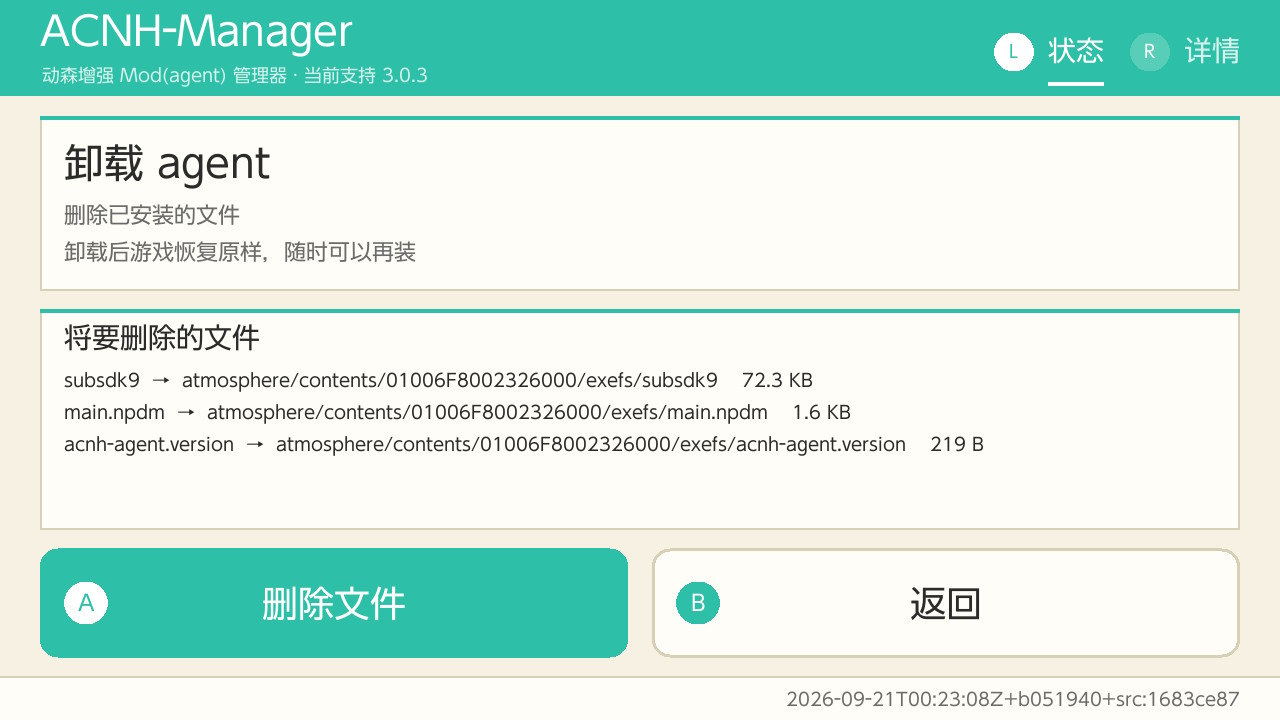
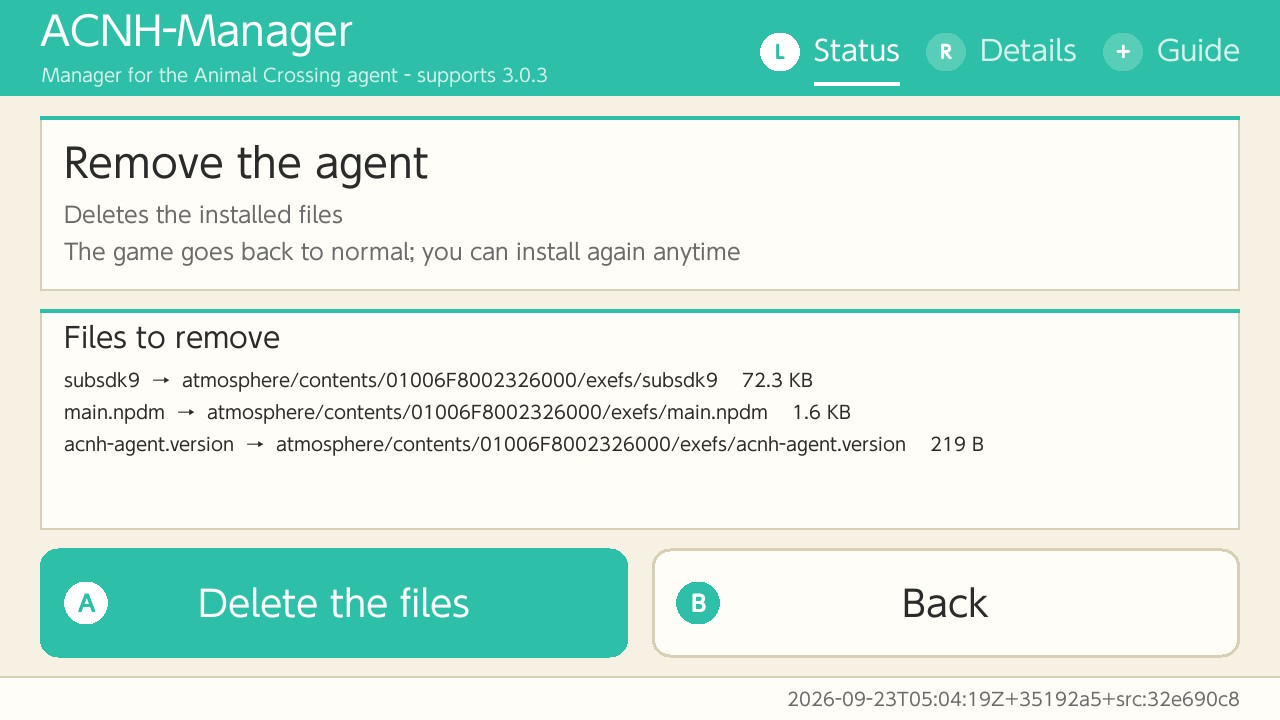
docs(store): refresh the store screenshots in English
Captured on hardware from the 1.0.1 release NRO already on the card (byte for
byte the published one): home, install confirmation, install result and the
uninstall confirmation, all in English because the store shows one text field
per entry to Chinese and English players alike. The four files were JPEG data
under a .png name; they are real PNGs now, matching the 196 screenshot assets
already in the upstream repo. store-listing.md and device-acceptance.md record
what was captured and what the card looked like afterwards.

diff --git a/docs/store-listing.md b/docs/store-listing.md
@@ -19,7 +19,7 @@
 |---|---|---|
 | 图标 | `assets/icon.png`(256×256,与 NRO 内图标同源) | 必需;商店网格里要能一眼认出。**已知取舍**:列表与详情页共用这一个文件 —— 列表按磁贴宽度等比画(方形最饱满),详情页却把图标按原始像素画进 256×150 的槽并裁掉溢出(`ui/menus/appstore.cpp`:`icon_vec(968, …, 256, 150)`,DrawIcon 不缩放),所以方形图标在详情页上下各少约 53 px(2026-09-21 真机实测)。两个视图无法同时完美,已试过改成 256×150:详情页完整了,但列表里的主体明显变小(+两条补边),故维持 256×256 |
 | 横幅 `screen.png` | `assets/screen.png`(848×208,由设计主图居中裁带得到;主图不入库) | 商店客户端把详情页顶部那块画成 **848×208**(Sphaira `ui/menus/appstore.cpp`:`banner_vec(70, …, 848.f, 208.f)`),缺图时回退成图标。**按比例裁切、不要缩放填满**;图里不写字(标题与说明由商店自己画)。换图:把新设计放成 `assets/screen-org.png`(仅本地需要,不入库)后跑 `tools/make-icons.py`,它会按 848:208 裁带生成 `screen.png`;没有主图时该步自动跳过 |
-| 截图 | `assets/screenshots/{status,install,done,uninstall}.png`(真机 1280×720,四张) | 商店按 `packages/<name>/screen<N>.png` 取图,所以 `tools/make-store-package.py` 会按 `SCREENSHOT_ORDER` 把它们声明成 `screenshot` 资产,并**额外**在包目录里生成 `screen1..4.png`(本地测试仓库与 CDN 布局用)。上游 README 明确说这类构建期文件可以不入 PR |
+| 截图 | `assets/screenshots/{status,install,done,uninstall}.png`(真机、英文界面、1280×720 真 PNG,2026-09-23 重抓) | 商店按 `packages/<name>/screen<N>.png` 取图,所以 `tools/make-store-package.py` 会按 `SCREENSHOT_ORDER` 把它们声明成 `screenshot` 资产,并**额外**在包目录里生成 `screen1..4.png`(本地测试仓库与 CDN 布局用)。上游 README 明确说这类构建期文件可以不入 PR。**界面用英文**:商店目录每个字段只有一份文本,客户端不做翻译,英文图对中英用户都可用;顺序是 首页(已安装)/ 安装确认页 / 安装成功页 / 卸载确认页,真机抓取过程见 `device-acceptance.md` 末节 |
 
 ## 文案要点
 

diff --git a/docs/device-acceptance.md b/docs/device-acceptance.md
@@ -626,3 +626,22 @@ sdmc:/atmosphere/contents/%016lx/cheats/%02x%02x%02x%02x%02x%02x%02x%02x.txt
 - 走完首页 → 确认页(列出将要写入的三个文件)→ 进度 → 结果页"安装成功";卡上三个文件更新为
   73 985 B 的新构建,回到首页变成"已是最新";
 - 冲突警告条全程在位,1.0.1 的新界面流程(确认页)也一并走到。
+
+## 商店截图与指南页真机截图(2026-09-23)
+
+商店条目与指南页要的截图都在这次会话里从真机抓取,用的是卡上那份 1.0.1 发布件
+(`/switch/ACNH-Manager/acnh-manager.nro` sha256 `3ad1c969…`,与 `packaging/nro/acnh-manager-1.0.1.nro`
+逐字节相同),所以图里的界面与商店分发的构建一致。
+
+| 用途 | 文件 | 画面 | 语言 |
+|---|---|---|---|
+| 商店条目 ×4 | `assets/screenshots/{status,install,done,uninstall}.png` | 首页(已安装)/ 安装确认页 / 安装成功页 / 卸载确认页 | English |
+
+过程:起始状态是"还没有安装 agent"(`exefs/` 不存在)→ 详情页按 A 切到 English → 首页 A 进确认页 →
+A 安装 → 结果页 → A 完成(首页变成"已安装")→ 按 Y 打开卸载确认页 → 按 B 返回 → 详情页按 A 切回中文。
+抓完卡上 `settings.json` 仍是 `{"schema":1,"language":"zh-Hans"}`,`exefs/` 里留着刚安装的三个文件
+—— 起始状态与此不同,当时卡上没有 agent。
+
+商店那四张原来是 JPEG 数据、文件名却是 `.png`;这次一并转成真 PNG(上游 196 个截图资产全部是
+`.png`)。同一次也抓过两张"还没有安装 agent"的首页画面(中英各一)给指南页,后来决定指南页不放
+截图(正文说清楚就够了),那两张没有保留。
